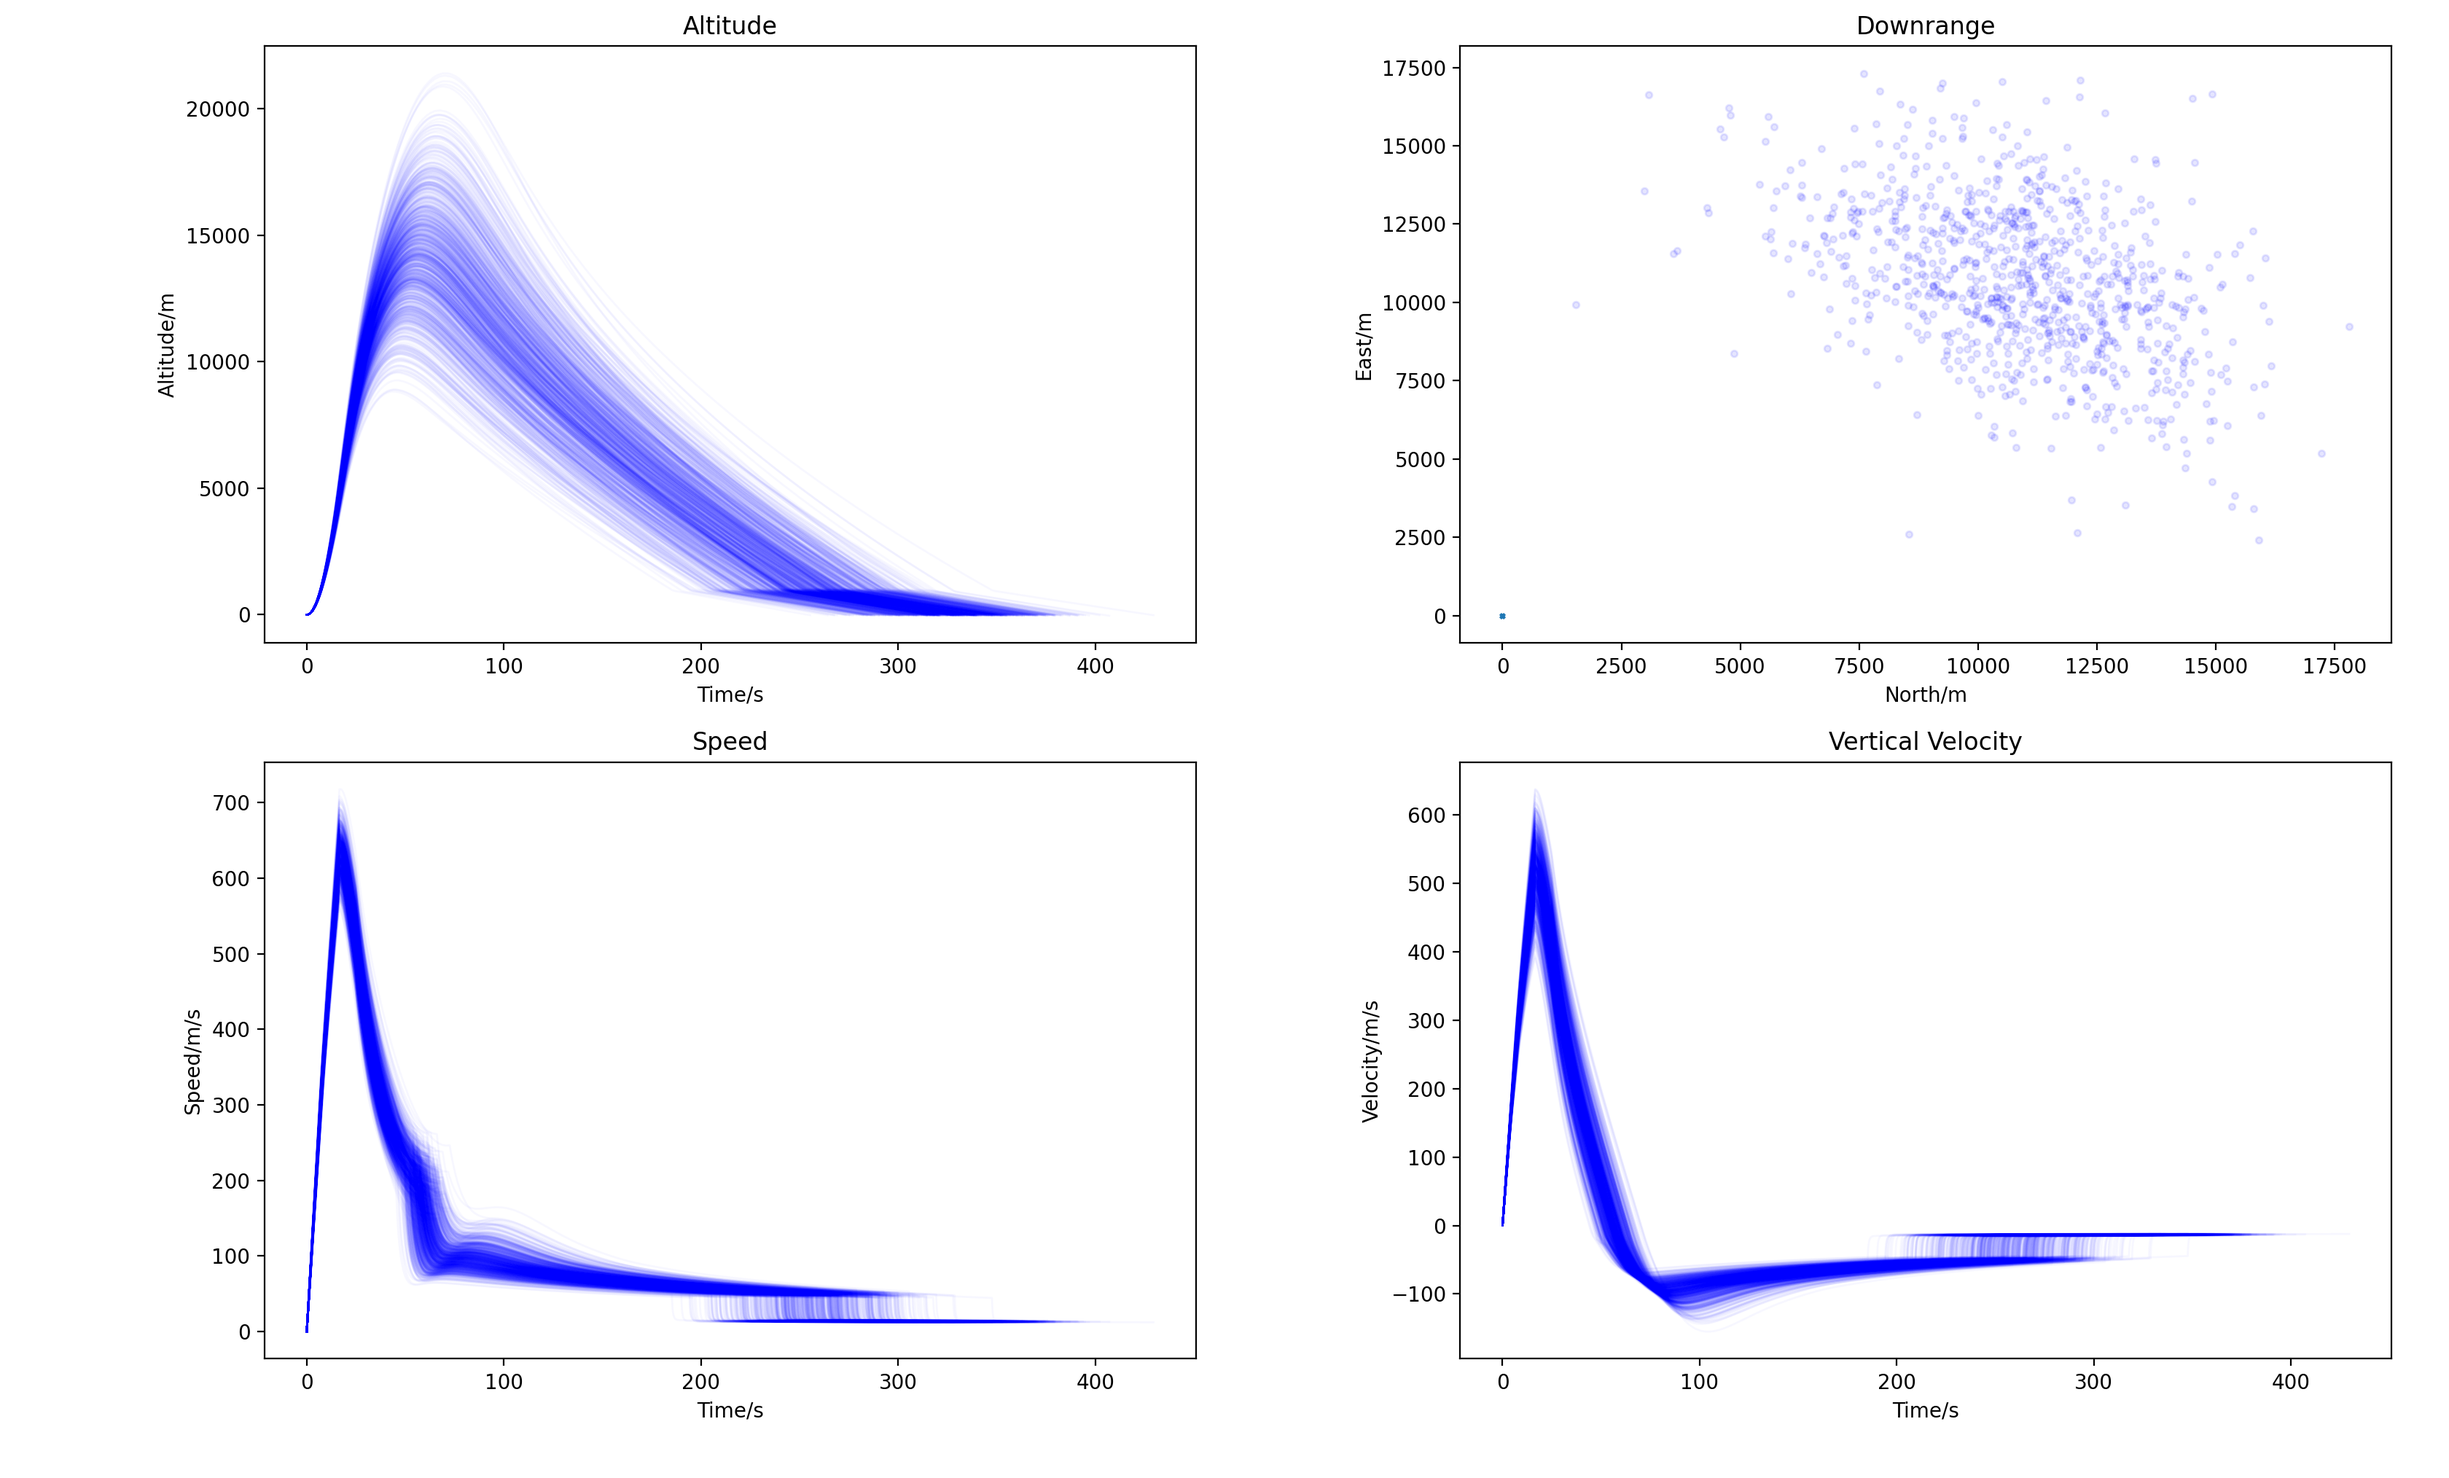
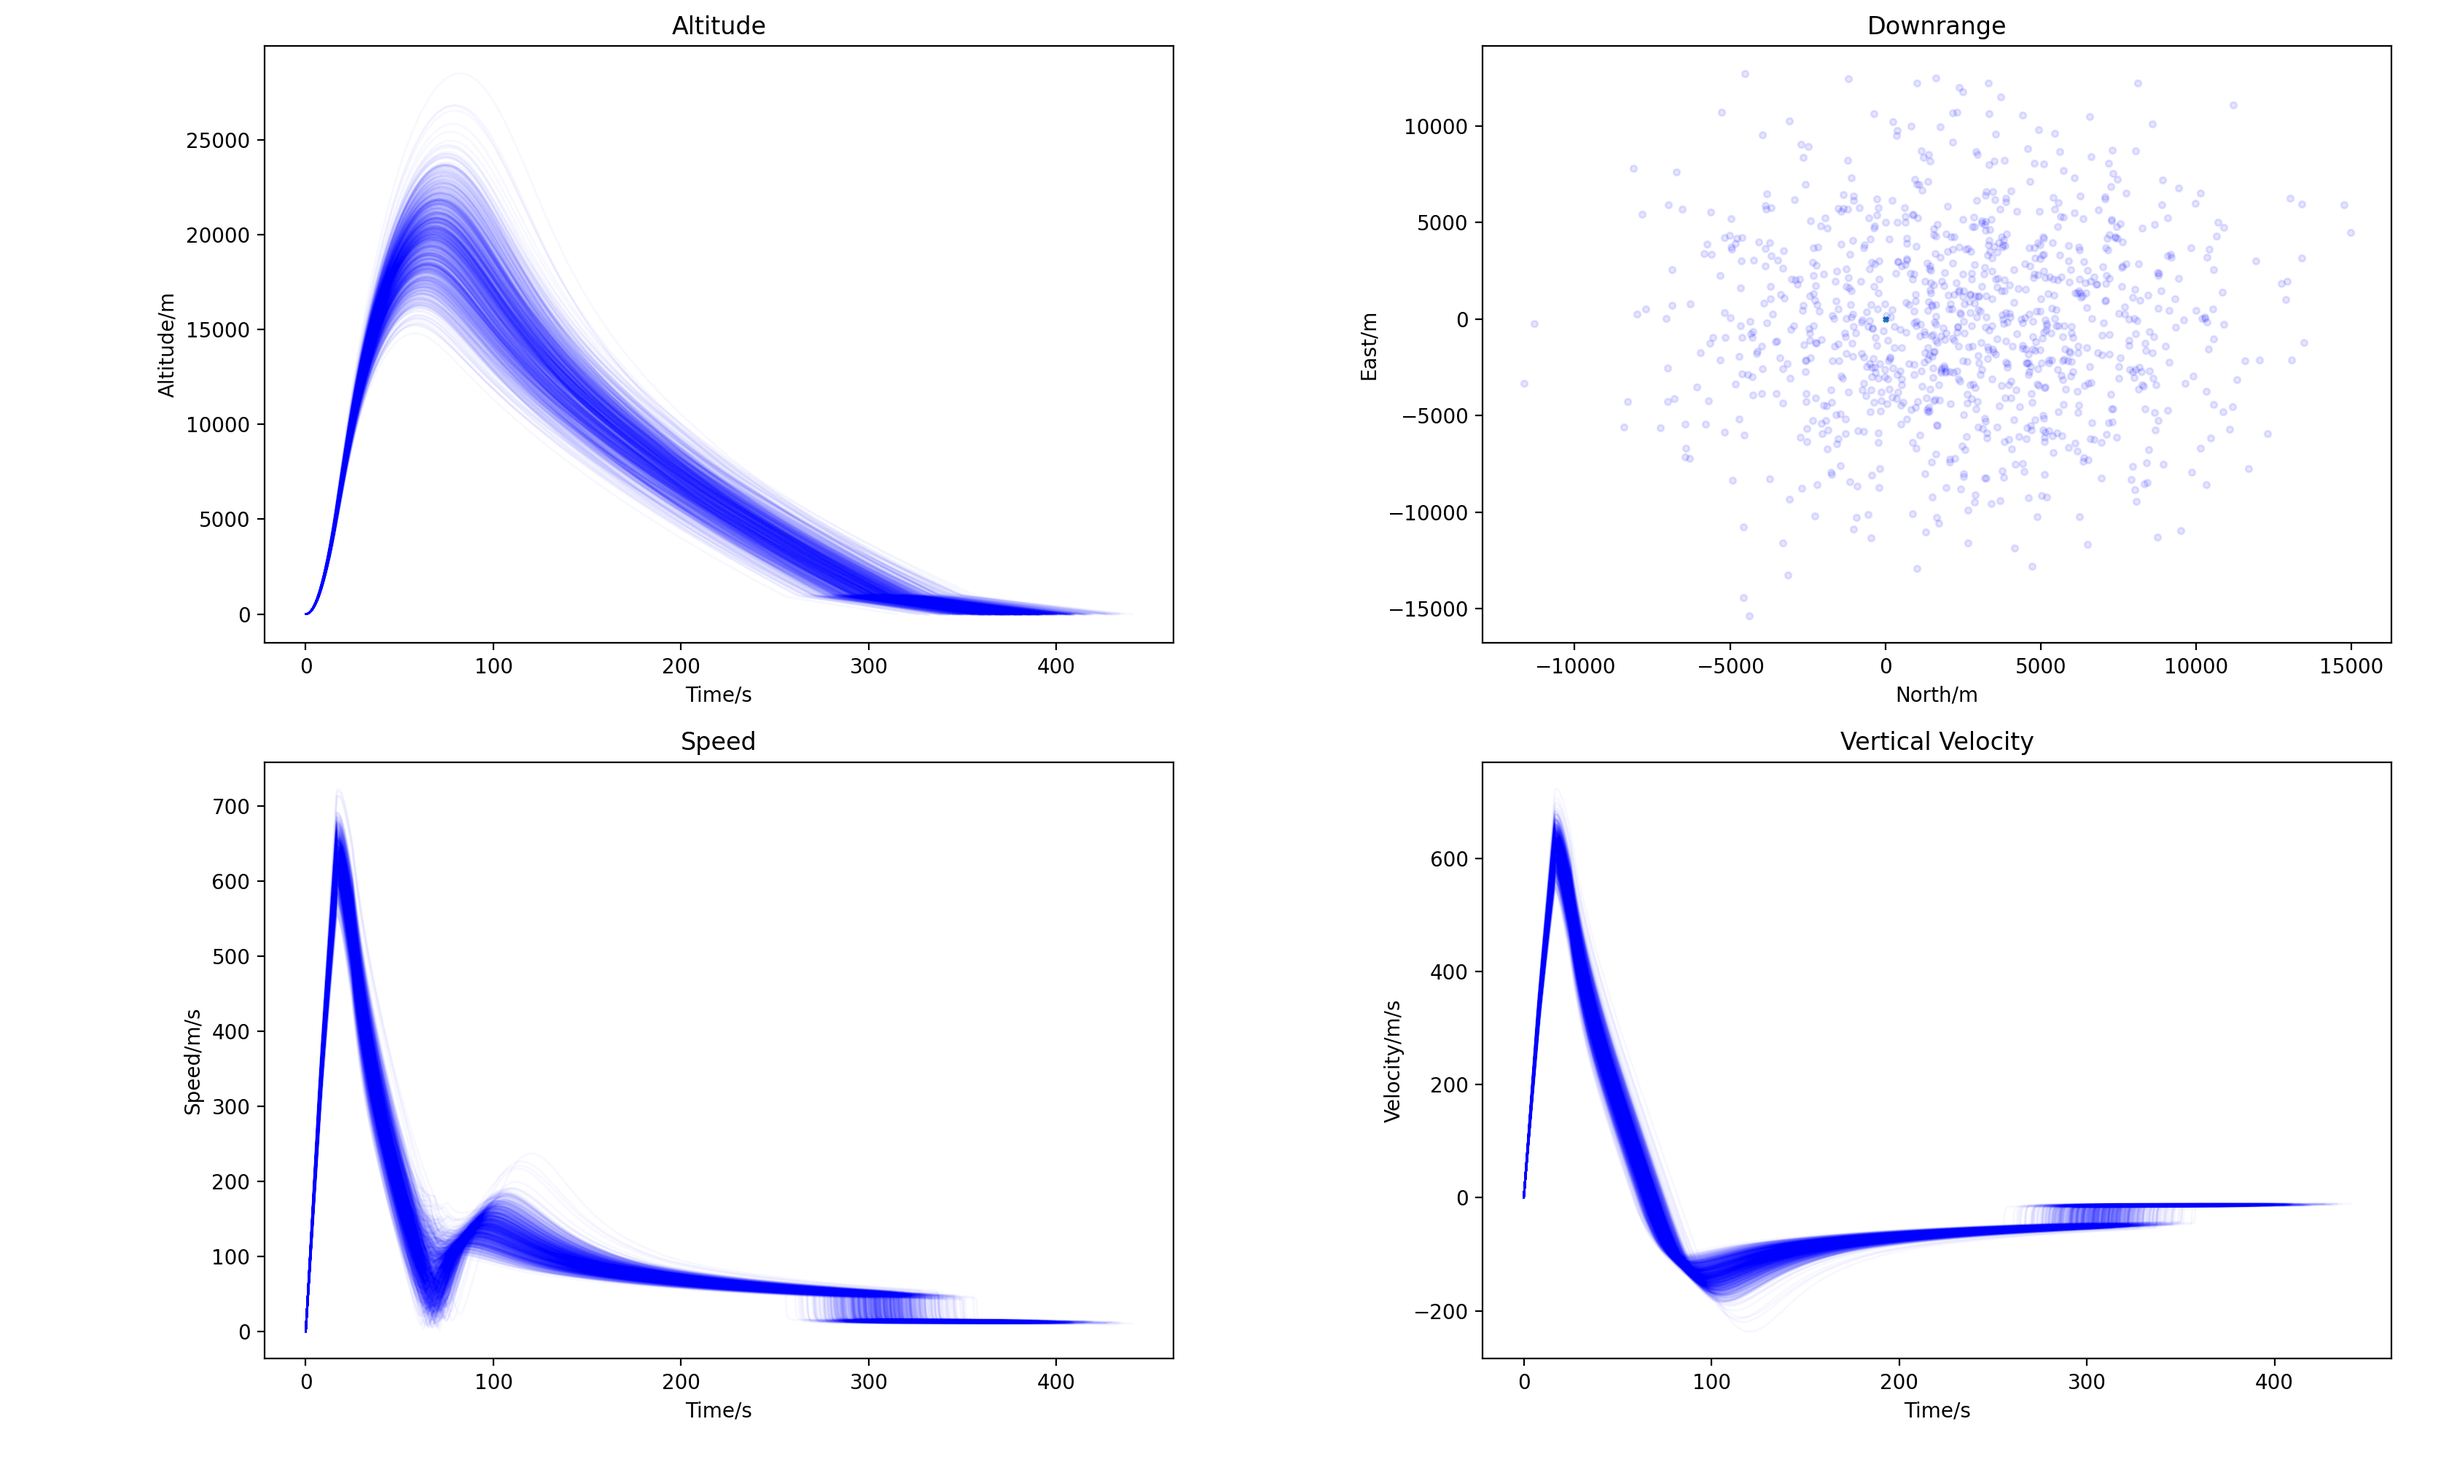
Changes for remote

diff --git a/stats_example_view.py b/stats_example_view.py
@@ -3,27 +3,24 @@ import matplotlib.pyplot as plt
 import pandas as pd
 import numpy as np
 
-run_name="stat_model_20201204"
+run_name="stat_model_20201204_1000"
 itterations = 1000
 
 fig, axs = plt.subplots(2, 2)
-axs[0,1].scatter(0,0,marker="x",s=5)
+axs[0,1].scatter(0,0,marker="x",s=5,color="red")
 
 xyz = []
 
 for n in range(1,itterations+1):
-    try:
         run_data = pd.read_csv("results/%s/%s.csv"%(run_name,n))
 
         xyz.append([run_data["x"], run_data["y"], run_data["z"]])
         speed = [(v_x**2+run_data["v_y"][index]**2+run_data["v_z"][index]**2)**.5 for index, v_x in enumerate(run_data["v_x"])]
 
-        axs[1,0].plot(run_data["time"],speed,linewidth=1,color="blue",alpha=0.03)
-        axs[0,0].plot(run_data["time"],run_data["z"],linewidth=1,color="blue",alpha=0.03)
+        axs[1,0].plot(run_data["time"],speed,linewidth=1,color="blue",alpha=0.01)
+        axs[0,0].plot(run_data["time"],run_data["z"],linewidth=1,color="blue",alpha=0.01)
         axs[0,1].scatter(run_data["x"].values[-1],run_data["y"].values[-1],marker="o",s=10,color="blue",alpha=0.1)
-        axs[1,1].plot(run_data["time"],run_data["v_z"],linewidth=1,color="blue",alpha=0.03)
-    except:
-        pass
+        axs[1,1].plot(run_data["time"],run_data["v_z"],linewidth=1,color="blue",alpha=0.01)
     
 
 #Make all the axes scales equal
@@ -46,7 +43,7 @@ plt.show()
 fig = plt.figure()
 ax = plt.axes(projection='3d')
 for itt in xyz:
-    ax.plot3D(itt[0], itt[1], itt[2],linewidth=1,color="blue",alpha=0.05)
+    ax.plot3D(itt[0], itt[1], itt[2],linewidth=1,color="blue",alpha=0.01)
 ax.set_xlabel('South/m')
 ax.set_ylabel('East/m')
 ax.set_zlabel('Altitude/m')  

diff --git a/stats_test.py b/stats_test.py
@@ -24,7 +24,7 @@ with open('novus_sim_6/motor_out.csv') as csvfile:
 aero_file="data/Martlet4RasAeroII.CSV"
 aero_error = {"COP":0.05,"CN":0.05,"CA":0.05}
 mass_model_vars={"dry_mass":[60,0.01],"prop_mass":[np.array(prop_mass_data),0.01],"time_data":[motor_time_data,0], "length":[6.529,0.015], "radius":[98.5e-3,0.015]}
-launch_site_vars={"rail_length":[10,.1], "rail_yaw":[2,0.03], "rail_pitch":[2,0.03], "alt":[0,1], "longi":[0,0.01], "lat":[0,0.01], "wind":[np.array([0,0,0]),1]}
+launch_site_vars={"rail_length":[10,.1], "rail_yaw":[0,0.03], "rail_pitch":[0,0.03], "alt":[0,1], "longi":[0,0.01], "lat":[0,0.01], "wind":[np.array([0,0,0]),1]}
 motor_base = trajectory.Motor(motor_time_data, prop_mass_data, cham_pres_data, throat_data, gamma_data, nozzle_efficiency_data, exit_pres_data, area_ratio_data)
 thrust_error = 0.03
 thrust_alignment_error = 0.0006 #~2'
